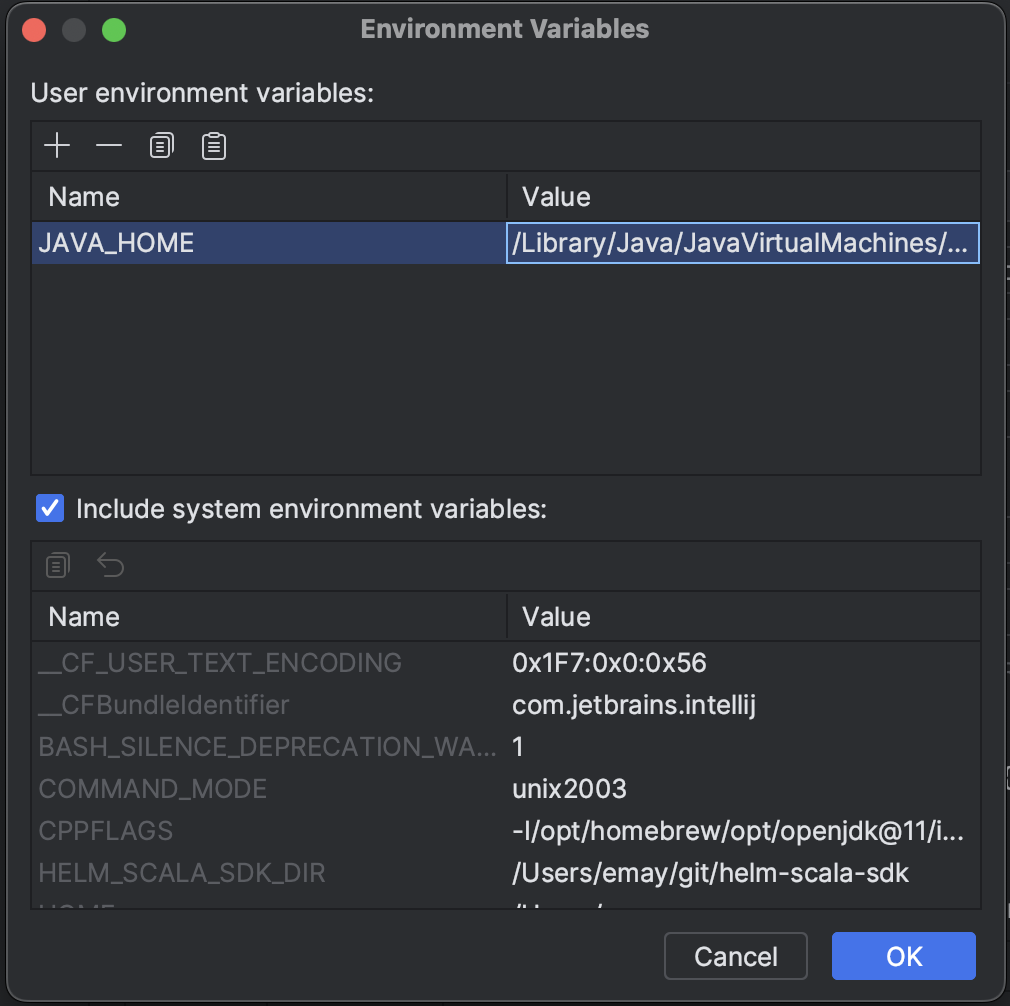
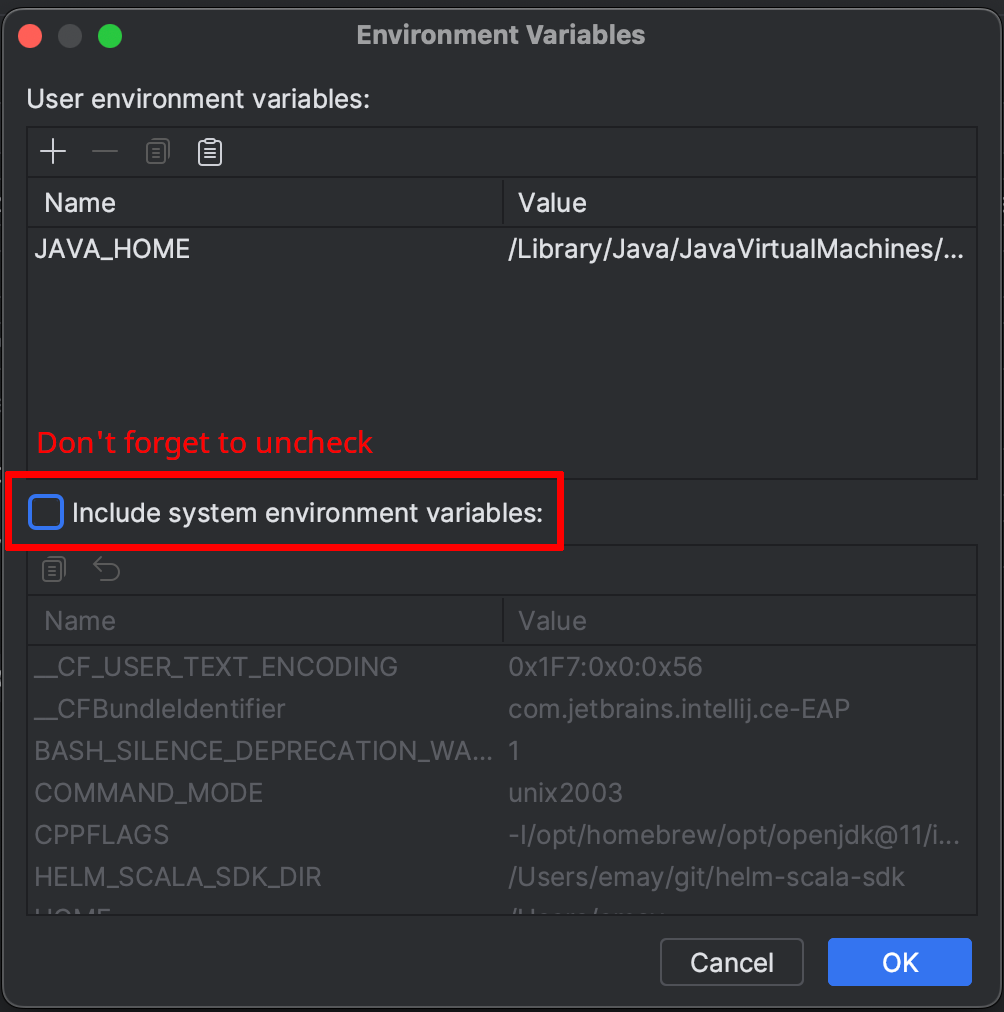
test instructions

diff --git a/README.md b/README.md
@@ -196,7 +196,7 @@ https://local.dsde-dev.broadinstitute.org](https://local.dsde-dev.broadinstitute
 #### Debugging in IntelliJ
 1. Install the [EnvFile plugin](https://plugins.jetbrains.com/plugin/7861-envfile)
 2. Install the [Scala plugin](https://plugins.jetbrains.com/plugin/1347-scala)
-3. Set up a new `Application` run configuration in IntelliJ:
+3. Set up a new `Application` run configuration in `Run > Edit Configurations`:
 
 (You may need to use the "Modify options" dropdown to unlock options like "Environment variables", "EnvFile", and "Add VM options")
 ![Run configuration](screenshots/intellij_local_leo_run.png)
@@ -210,6 +210,29 @@ Now you can go back into the run configuration and add it to the "Environment va
 ![Environment variables dialog](screenshots/intellij_local_leo_run_env_var_java_home.png)
 ![Run configuration fixed](screenshots/intellij_local_leo_run_fixed.png)
 5. Run it!
+
+#### Run Tests in IntelliJ
+In order to use the GUI elements to run tests, some runtime configuration template changes are needed:
+1. Set default ScalaTest runtime configuration options in `Run > Edit Configurations`
+First, open the template settings:
+![Runtime configurations dialog](screenshots/intellij_local_leo_test_edit_templates.png)
+Then, go to `ScalaTest`:
+![ScalaTest template settings](screenshots/intellij_local_leo_test_edit_templates_scalatest.png)
+Open `VM Options` (labeled "1" above) and add the `JAVA_OPTS` from [Run Leonardo unit tests](#run-leonardo-unit-tests), which should end up looking like:
+![ScalaTest template JVM options](screenshots/intellij_local_leo_test_edit_templates_scalatest_java_opts_filled.png)
+Open `Environment variables` (labeled "2" above) and uncheck `Include system environment variables`:
+![ScalaTest template env vars](screenshots/intellij_local_leo_test_edit_templates_scalatest_env_vars_uncheck.png)
+2. Change Scala compiler options in IntelliJ settings
+IntelliJ isn't smart enough to set compiler flags differently between the source and test targets. To hack around this, open `Settings > Build, Execution, Deployment > Compier > Scala Compiler` and select the `http` module. Then either uncheck `Enable warnings` or remove `-Xfatal-warnings`.
+**NOTE: These changes may revert when you reload the sbt project!** Repeat this step to fix tests complaining about warnings that have been turned into errors.
+![Scalac options](screenshots/intellij_local_leo_test_scalac_options.png)
+3. Make sure the local MySQL server is running by following the instructions in [Run Leonardo unit tests](#run-leonardo-unit-tests).
+4. Find a test to run and click on the green arrow next to the test to run it normally or using the debugger:
+![Test run pop-up](screenshots/intellij_local_leo_test_run.png)
+5. Run it!
+You should see something like
+![Test run results](screenshots/intellij_local_leo_test_run_output.png)
+
 
 #### Connecting to the MySQL database via the CloudSQL proxy
 Once you've rendered the configs, started the CloudSQL proxy, and sourced the env vars required to run Leo, you can connect to your database with:
